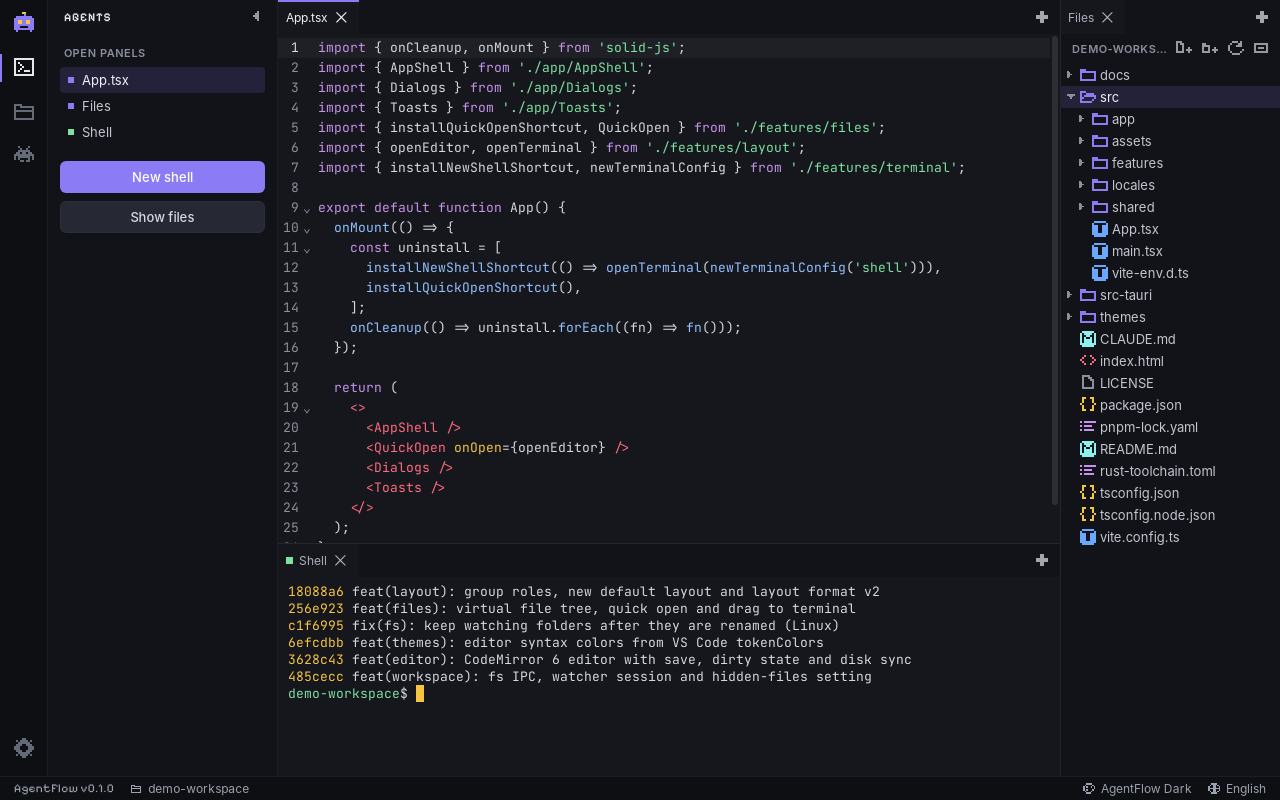
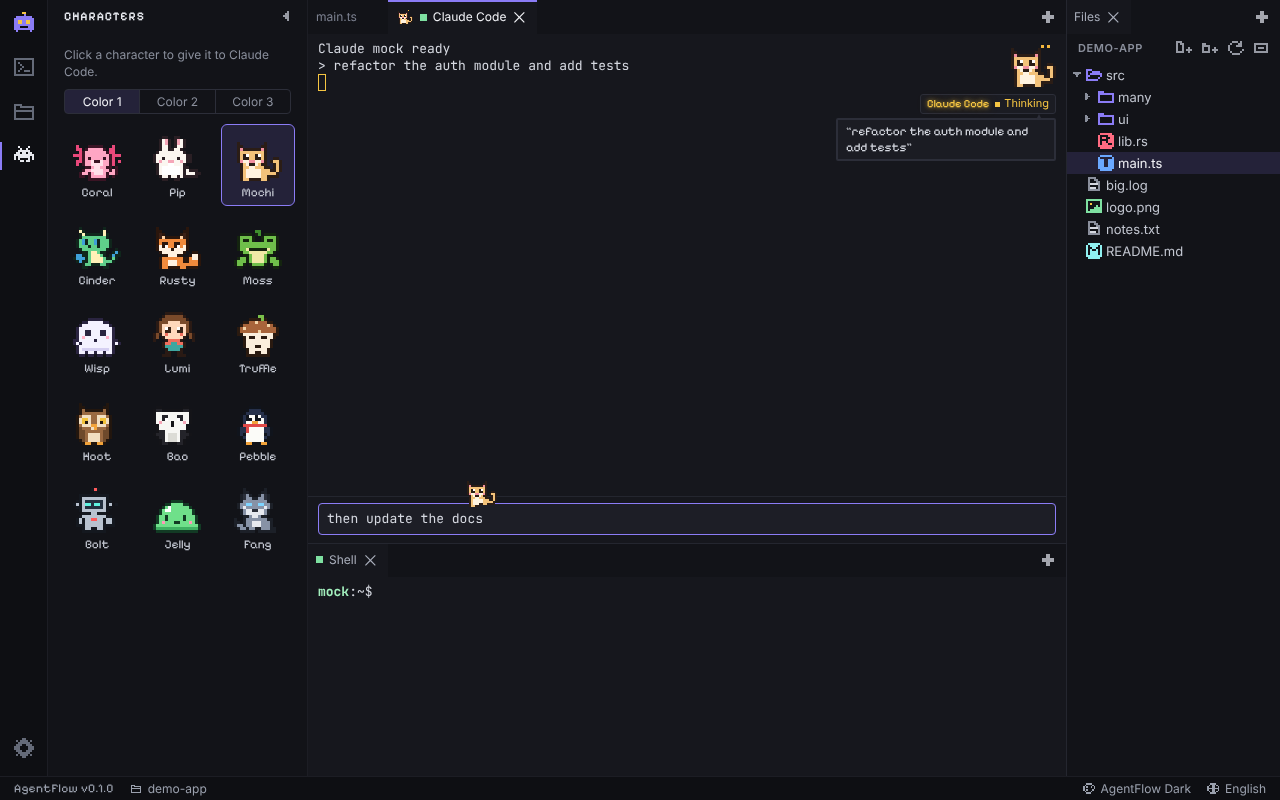
docs: phase 4 in CLAUDE.md and README, character sheet, new screenshot
CLAUDE.md documents the sprite format, the shared animation loop, the
agent state heuristic and the prompt bar rules. The README gets the
phase 4 features, docs/characters.png (all 15, idle frame 1 at 4x) and a
new screenshot. Also applies prettier to four phase 4 files.

Claude-Session: https://claude.ai/code/session_018sA9Y4wRkNDR67pTEiD5Ny

diff --git a/src/features/layout/characters.ts b/src/features/layout/characters.ts
@@ -55,7 +55,11 @@ export { focusedAgent };
 export function trackFocusedAgent(dock: DockviewApi): void {
   const active = dock.activePanel;
   const params = active ? parsePanelParams(active.params) : null;
-  if (active && params?.kind === 'terminal' && wantsCharacter(params.config, settings.characters.onShells)) {
+  if (
+    active &&
+    params?.kind === 'terminal' &&
+    wantsCharacter(params.config, settings.characters.onShells)
+  ) {
     setFocusedAgent({ id: active.id, title: active.title ?? active.id });
   } else if (focusedAgent() && !dock.getPanel(focusedAgent()?.id ?? '')) {
     setFocusedAgent(null);

diff --git a/src/features/characters/CharacterPicker.tsx b/src/features/characters/CharacterPicker.tsx
@@ -28,7 +28,12 @@ export function CharacterPicker(props: CharacterPickerProps) {
               title={sheet.name}
               onClick={() => props.onPick({ id: sheet.id, palette: 0 })}
             >
-              <Avatar character={{ id: sheet.id, palette: 0 }} state="idle" scale={2} animate={false} />
+              <Avatar
+                character={{ id: sheet.id, palette: 0 }}
+                state="idle"
+                scale={2}
+                animate={false}
+              />
             </button>
           )}
         </For>

diff --git a/src/app/views/CharactersView.tsx b/src/app/views/CharactersView.tsx
@@ -11,7 +11,9 @@ const GALLERY_SCALE = 3;
 export function CharactersView() {
   const [palette, setPalette] = createSignal(0);
   const [hovered, setHovered] = createSignal<string | null>(null);
-  onMount(() => void loadCharacters().catch((err: unknown) => reportError('error.characters', err)));
+  onMount(
+    () => void loadCharacters().catch((err: unknown) => reportError('error.characters', err)),
+  );
 
   const target = createMemo(() => {
     const agent = focusedAgent();

diff --git a/src/shared/ui/icons.ts b/src/shared/ui/icons.ts
@@ -218,5 +218,14 @@ export const collapseIcon: PixelArt = {
 };
 
 export const copyIcon: PixelArt = {
-  rows: ['........', '.####...', '.#..###.', '.#..#.#.', '.####.#.', '...#..#.', '...####.', '........'],
+  rows: [
+    '........',
+    '.####...',
+    '.#..###.',
+    '.#..#.#.',
+    '.####.#.',
+    '...#..#.',
+    '...####.',
+    '........',
+  ],
 };

diff --git a/CLAUDE.md b/CLAUDE.md
@@ -26,28 +26,30 @@ src-tauri/src/
   commands/           thin #[tauri::command] fns that delegate to modules
   pty/                PtyManager, sessions (reader/waiter/pump threads), shells, CLI detection
   fs/                 workspace: path checks, list/read/write/trash, quick open index, watcher
+  prompts/            prompt history per workspace (app data dir, own JSON file per workspace)
   util/               atomic_write, run_blocking, lock/Signal, hex color check, test_dir
 src/
   main.tsx, App.tsx   entry: bootstrap (settings -> locale -> theme -> workspace fs), then render
   app/                shell: ActivityBar, Sidebar (+ views), StatusBar, Toasts, Dialogs, styles/
-  features/layout/    dockview host, panels, group roles, placement, saved layout, tabs
-  features/terminal/  TerminalController (xterm + pty session), lazy TerminalPanel, stores
+  features/layout/    dockview host, panels, roles, placement, saved layout, tabs, characters
+  features/terminal/  TerminalController, lazy TerminalPanel, agent/ overlay, prompt/ bar
+  features/characters/  sprites/*.json, renderer, shared rAF animator, Avatar, state heuristic
   features/workspace/ workspace folder, fs session (backend open + watcher events), path helpers
   features/files/     Files panel: tree model/store, virtual TreeView, icons, quick open
   features/editor/    lazy EditorPanel + EditorController (CodeMirror), languages, dirty store
   features/theme/     VS Code -> --af-* mapping (+ syntax vars), user overrides, engine, store
   features/i18n/      typed t(), lazy locale loading, reportError()
   features/settings/  settings store (debounced save) + lazy SettingsPanel and sections
-  features/{characters,providers,tokens,agents}/, src-tauri/src/{providers,tokens,agents}/: empty
+  features/{providers,tokens,agents}/, src-tauri/src/{providers,tokens,agents}/: empty stubs
   shared/             ipc, types, errors, toast, dialog, platform, dnd, debounce, color, ui/
   locales/            en.json (source of truth), tr, de, zh, ru
 themes/               built-in theme JSON (embedded into the Rust binary via include_str!)
 ```
 
 Layering: `shared/` imports nothing from `features/` or `app/`. Core features (`i18n`,
-`settings`, `theme`) never import panel features. Panel features (`terminal`, `files`, `editor`)
-import core features and `workspace`, never each other. `layout` and the settings panel compose
-panel features; `app/` composes all.
+`settings`, `theme`, `characters`) never import panel features. Panel features (`terminal`,
+`files`, `editor`) import core features and `workspace`, never each other. `layout` and the
+settings panel compose panel features; `app/` composes all.
 
 ## Code rules
 
@@ -75,16 +77,15 @@ panel features; `app/` composes all.
   `{ type: 'exit', code, signal }`, then drops the channel (unregistering the JS callback).
 - Kill (panel close, `pty_kill`, exit, reload) = SIGHUP / TerminateProcess, SIGKILL after 2 s;
   the waiter thread reaps. Flow control: `pty_ack` after xterm parses, reader pauses at 512 KB.
-- Persist terminal _config_ only. Restored agent CLIs never auto-start; shells follow
-  `terminal.autoStartShells`.
+- Persist terminal _config_ only (incl. `character` and `historyKey`). Restored agent CLIs never
+  auto-start; shells follow `terminal.autoStartShells`.
 
 ## FS / watcher pattern
 
-- Paths from the frontend are workspace-relative with `/`; `fs/paths.rs` canonicalizes and
-  rejects `..`, absolute paths and symlinks escaping the root.
-- One `ignore` config (`fs/walk.rs`: .gitignore even outside git, .ignore, `.git` always
-  hidden, dotfiles per `files.showHidden`) for listing, quick open and the watcher's filter.
-- `fs_open_workspace(root, showHidden, Channel)` starts notify with a 200 ms debounce; batches
+- Frontend paths are workspace-relative with `/`; `fs/paths.rs` canonicalizes and rejects `..`,
+  absolute paths and escaping symlinks. One `ignore` config (`fs/walk.rs`: .gitignore even
+  outside git, `.git` always hidden, dotfiles per `files.showHidden`) for list, quick open, watcher.
+- `fs_open_workspace(root, showHidden, Channel)`: notify with a 200 ms debounce; batches
   `{ paths, structural, rescan }` go to `workspace/fsSession.ts`, which fans them out.
 - Saves are atomic with the mtime the file was read at (mismatch = `conflict`: Reload / Keep
   mine). Deletes go to the OS trash. Reads stop at 5 MB.
@@ -94,8 +95,24 @@ panel features; `app/` composes all.
 - Groups have a role (`layout/roles.ts`): `agents` (center: agent CLIs, editors, settings),
   `files` (right, ~22%), `terminal` (shells, ~30% under the center). New panels open in the last
   focused group of their role; `placement.ts` recreates a missing one at its default spot.
-- Saved layout = `{ version: 2, dock, roles }`; other versions get the default layout. Bump
-  `LAYOUT_VERSION` in `savedLayout.ts` when panel shapes change.
+- Saved layout = `{ version: 2, dock, roles }`, else the default layout. Bump `LAYOUT_VERSION`
+  in `savedLayout.ts` when panel shapes change incompatibly.
+
+## Characters & prompt bar
+
+- Sprites: `characters/sprites/*.json` = `{ id, name, size, palettes, frameMs, states }`, size 16
+  (32 accepted), 2-3 palettes of hex colors, 8 states (idle walk think work receive done error
+  sleep) of 2-4 frames; a frame is `size` strings of `size` chars, `.` = transparent, else a
+  base-36 palette index (`validate.ts`). Character names are never translated.
+- `renderer.ts` caches one ImageBitmap strip per (character, palette, integer scale, state). All
+  motion uses the ONE loop in `animator.ts`, which only runs while something animates on screen
+  in a visible document; idle/sleep are still frames (~0 CPU at rest). Respect `reducedMotion()`.
+- State heuristic (`stateMachine.ts`; `terminal/agentActivity.ts`, one timer per panel): prompt
+  -> think; output -> work; 2 s quiet -> done; 5 s later -> idle; exit 0 -> sleep, else error.
+  Output within 400 ms of a prompt or typed keys is their echo, not work.
+- Agent panels (shells only with `characters.onShells`) get an unused character on open
+  (`layout/characters.ts`). The prompt bar writes to the pty first (`encodePrompt`: bracketed
+  paste for multiline text when enabled, then CR); animations are decoration only.
 
 ## Themes, i18n, settings
 
@@ -103,10 +120,9 @@ panel features; `app/` composes all.
   dark/light fallback); never hard-code colors. `tokenColors` -> `agentflow.syntax.*` (Rust) ->
   `--af-syntax-*`, else the ANSI palette. Overrides (text, accent, agent bold `--af-bold-color`
   `#F5C542`, `--af-glow`) live in `overrides.ts`; imports are `user:<slug>` themes on disk.
-- Flat dotted keys in `src/locales/en.json`; `I18nKey = keyof typeof en`. Every visible string
-  goes through `t('key', { param })`. New keys go into **all five** locales: a missing key fails
-  `pnpm typecheck`, and `pnpm test` checks keys and `{placeholders}`.
-- Rust owns `settings.json` (v3): bump `CURRENT_VERSION` + add a `migrate.rs` step when the shape
+- Flat dotted keys in `src/locales/en.json`; `I18nKey = keyof typeof en`; every visible string
+  uses `t('key', { param })`. New keys go into **all five** locales (typecheck + tests check).
+- Rust owns `settings.json` (v4): bump `CURRENT_VERSION` + add a `migrate.rs` step when the shape
   changes; `normalized()` repairs values. The frontend uses `updateSettings()` (300 ms debounce).
 
 ## Commands
@@ -123,7 +139,7 @@ cargo build    # in src-tauri: compile check, no bundling
 1. [x] Skeleton, theme engine, i18n, dockable layout
 2. [x] PTY + multi terminal panels (xterm.js WebGL, portable-pty)
 3. [x] Workspace file tree (notify + ignore) + CodeMirror 6 viewer/editor
-4. [ ] Pixel character system (15 characters, 16x16 JSON sprites scaled, typewriter speech bar)
+4. [x] Pixel character system (15 characters, 16x16 JSON sprites scaled, typewriter speech bar)
 5. [ ] AI providers (CLI agents + Anthropic/OpenAI/Gemini/DeepSeek/compatible APIs, keyring keys)
 6. [ ] Token & cost tracking
 7. [ ] Agent installer wizard (per-AI formats/paths)

diff --git a/README.md b/README.md
@@ -6,16 +6,16 @@ side in a VS Code-style dockable layout, watched over by cute pixel-art agent ch
 AgentFlow is a lightweight desktop app (Tauri 2 + Rust + SolidJS) for Windows, macOS and Linux.
 The goals are low RAM, a fast UI, a clean codebase, and a fun look.
 
-> **Status:** early development. Phases 1–3 of 9 are done: app shell, themes, languages,
-> dockable layout, real terminal panels, the workspace file tree and a code editor. See the
-> [roadmap](#roadmap).
+> **Status:** early development. Phases 1–4 of 9 are done: app shell, themes, languages,
+> dockable layout, real terminal panels, the workspace file tree, a code editor, and pixel
+> characters with a prompt bar. See the [roadmap](#roadmap).
 
 ![AgentFlow screenshot](docs/screenshot.png)
-<!-- Phase 3: editor in the center, file tree on the right, a real shell below (Linux, WebKitGTK). -->
+<!-- Phase 4: an agent panel with its character, speech bubble and prompt bar; the Characters view on the left. -->
 
 ## Features
 
-Available now (phases 1–3):
+Available now (phases 1–4):
 
 - VS Code-style shell: activity bar, resizable and collapsible sidebar, dock area, status bar
 - Dockable panels (split, tab, drag, close, re-open from **+**), and the layout persists across restarts
@@ -36,10 +36,18 @@ Available now (phases 1–3):
 - Drag a file from the tree onto a terminal to type its path for your agent
 - CodeMirror 6 editor (loaded on demand) with syntax highlighting from your theme, safe saves
   that never overwrite changes made on disk, and a quick open palette (Ctrl/Cmd+P)
+- 15 pixel characters: every agent panel gets one (in its tab, its corner and the Agents list);
+  it thinks, works, finishes and sleeps along with the agent, and rides above the terminal
+  cursor while output streams. Pick another one from the tab or the Characters view
+- A prompt bar under agent panels: Enter sends straight to the agent, Shift+Enter adds a line,
+  Up recalls; your character walks along as you type and catches the prompt as a pixel packet.
+  Prompt history per panel and workspace (click the character)
+- Animations cost nothing while agents rest, stop when hidden and follow reduced motion
+
+![The 15 characters](docs/characters.png)
 
 Planned:
 
-- 15 pixel characters with a typewriter speech bar
 - AI providers: Claude Code, Codex and Gemini CLIs, plus Anthropic, OpenAI, Gemini, DeepSeek and
   OpenAI-compatible APIs (keys stored in the OS keyring)
 - Token and cost tracking
@@ -52,7 +60,7 @@ Planned:
 | 1     | Skeleton, theme engine, i18n, dockable layout                          | Done   |
 | 2     | PTY + multiple terminal panels (xterm.js WebGL, portable-pty)          | Done   |
 | 3     | Workspace file tree (notify + ignore) + CodeMirror 6 viewer/editor     | Done   |
-| 4     | Pixel character system (15 characters, 16x16 JSON sprites, speech bar) |        |
+| 4     | Pixel character system (15 characters, 16x16 JSON sprites, speech bar) | Done   |
 | 5     | AI providers (CLI agents + HTTP APIs, keys in the OS keyring)          |        |
 | 6     | Token and cost tracking                                                |        |
 | 7     | Agent installer wizard (per-AI formats and paths)                      |        |
@@ -61,13 +69,15 @@ Planned:
 
 ## Keyboard shortcuts
 
-| Shortcut (Cmd on macOS)     | Action                      |
-| --------------------------- | --------------------------- |
-| Ctrl+P                      | Quick open a workspace file |
-| Ctrl+S                      | Save the current editor     |
-| Ctrl+Shift+`                | New shell                   |
-| Ctrl+Shift+C / Ctrl+Shift+V | Copy / paste in a terminal  |
-| F2 / Delete (file tree)     | Rename / move to the trash  |
+| Shortcut (Cmd on macOS)     | Action                       |
+| --------------------------- | ---------------------------- |
+| Ctrl+P                      | Quick open a workspace file  |
+| Ctrl+S                      | Save the current editor      |
+| Ctrl+Shift+`                | New shell                    |
+| Ctrl+Shift+C / Ctrl+Shift+V | Copy / paste in a terminal   |
+| Enter / Shift+Enter         | Send / new line (prompt bar) |
+| Up / Down (prompt bar)      | Recall earlier prompts       |
+| F2 / Delete (file tree)     | Rename / move to the trash   |
 
 ## Development setup
 
